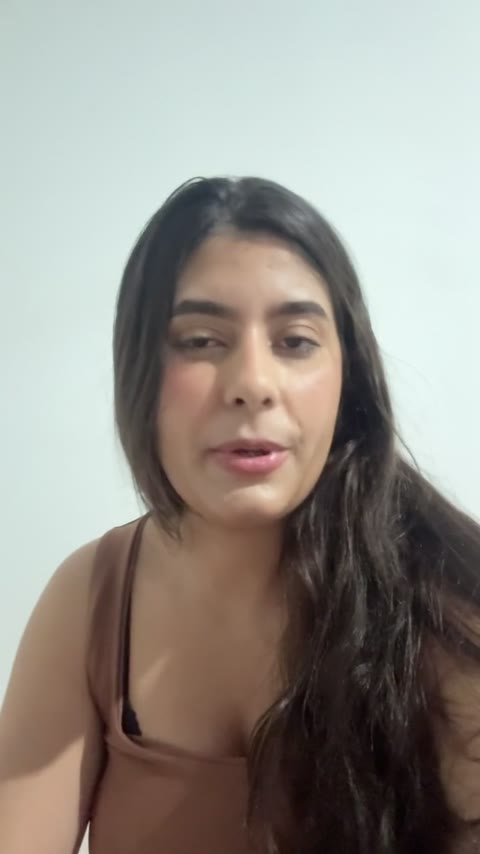
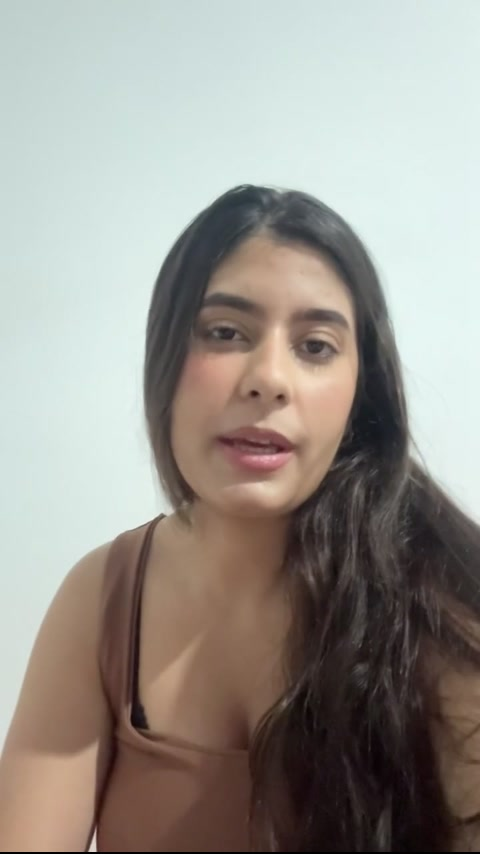
feat: organiza videos depoimento lado a lado em 2 colunas e remove cta flutuante

diff --git a/index.html b/index.html
@@ -210,55 +210,38 @@ a.btn:hover{filter:brightness(1.1)}
 }
 .wa-dot{width:7px;height:7px;border-radius:50%;background:#25d366;box-shadow:0 0 6px #25d366;margin-right:6px}
 
-.wa-video-tabs{
-  display:flex;gap:8px;justify-content:center;margin:12px 0 10px;
+.wa-videos-grid{
+  display:grid;
+  grid-template-columns:1fr 1fr;
+  gap:9px;
+  margin:10px 0 14px;
 }
-.wa-vtab{
-  background:#141414;border:1px solid #25d36638;color:#a0a0a0;
-  padding:6px 14px;border-radius:99px;font-size:11.5px;font-weight:750;
-  cursor:pointer;display:inline-flex;align-items:center;gap:6px;transition:.2s;
-  font-family:inherit;
-}
-.wa-vtab i{font-style:normal;font-size:9px;color:#25d366}
-.wa-vtab.active{
-  background:#25d36618;border-color:#25d366;color:#fff;
-  box-shadow:0 0 12px #25d36625;
-}
-.wa-videos-slider{
-  display:flex;gap:12px;overflow-x:auto;scroll-snap-type:x mandatory;
-  -webkit-overflow-scrolling:touch;padding:4px 2px 10px;
-  scrollbar-width:thin;scrollbar-color:#25d36640 transparent;
-}
-.wa-videos-slider::-webkit-scrollbar{height:4px}
-.wa-videos-slider::-webkit-scrollbar-thumb{background:#25d36640;border-radius:99px}
 .wa-video-card{
-  background:#0d0d0d;border:1px solid #25d36640;border-radius:18px;
-  overflow:hidden;box-shadow:0 0 0 1px #25d36622,0 16px 40px #00000088;
-  flex:0 0 280px;max-width:280px;scroll-snap-align:center;
-  position:relative;margin:0 auto;
+  background:#141414;border:1px solid #25d36640;border-radius:14px;
+  overflow:hidden;box-shadow:0 8px 24px #00000066;
+  display:flex;flex-direction:column;min-width:0;
+  position:relative;
 }
 .wa-video-top{
-  padding:8px 12px;background:#111;border-bottom:1px solid #25d36628;
+  padding:5px 8px;background:#111;border-bottom:1px solid #25d36622;
   display:flex;align-items:center;justify-content:space-between;
 }
-.wa-video-tag{font-size:11px;font-weight:800;color:#25d366;display:flex;align-items:center;gap:6px;letter-spacing:.3px}
-.wa-video-badge{font-size:10px;font-weight:800;color:#25d366;background:#25d36618;border:1px solid #25d36640;padding:2px 8px;border-radius:99px;display:flex;align-items:center;gap:4px}
+.wa-video-tag{font-size:9.5px;font-weight:800;color:#25d366;display:flex;align-items:center;gap:4px;letter-spacing:.2px}
+.wa-video-badge{font-size:9px;font-weight:800;color:#25d366;background:#25d36618;border:1px solid #25d36640;padding:1px 6px;border-radius:99px}
 /* 9:16 vertical ratio */
-.wa-video-wrap{position:relative;width:100%;padding-top:177.78%;background:#000}
+.wa-video-wrap{position:relative;width:100%;aspect-ratio:9/16;background:#000;overflow:hidden}
 .wa-video-wrap video{position:absolute;inset:0;width:100%;height:100%;border:none;object-fit:cover;display:block}
 .wa-video-name{
-  padding:10px 13px 4px;background:#0f0f0f;
-  display:flex;align-items:center;gap:8px;
+  padding:6px 8px 3px;background:#141414;
+  display:flex;align-items:center;gap:6px;
 }
-.wa-video-avatar{width:30px;height:30px;border-radius:50%;background:linear-gradient(135deg,#25d366,#128c5e);display:grid;place-items:center;font-size:13px;font-weight:800;color:#fff;flex:none}
+.wa-video-avatar{width:22px;height:22px;border-radius:50%;background:linear-gradient(135deg,#25d366,#128c5e);display:grid;place-items:center;font-size:11px;font-weight:800;color:#fff;flex:none}
 .wa-video-name-info{flex:1;min-width:0}
-.wa-video-name-info b{font-size:12.5px;color:#fff;display:block;line-height:1.2}
-.wa-video-name-info span{font-size:10.5px;color:#25d366;display:flex;align-items:center;gap:4px}
-.wa-video-cap{padding:6px 13px 13px;background:#0f0f0f;border-top:1px solid #ffffff08;text-align:left}
-.wa-video-cap p{font-size:12px;color:#ccc;line-height:1.45;font-style:italic;}
+.wa-video-name-info b{font-size:11.5px;color:#fff;display:block;line-height:1.2;white-space:nowrap;overflow:hidden;text-overflow:ellipsis}
+.wa-video-name-info span{font-size:9.5px;color:#25d366;display:flex;align-items:center;gap:3px;white-space:nowrap}
+.wa-video-cap{padding:5px 8px 8px;background:#171717;border-top:1px solid var(--line);text-align:left;flex:1;display:flex;align-items:center}
+.wa-video-cap p{font-size:10.5px;color:#d5d5d5;line-height:1.35;font-style:italic;margin:0}
 .wa-video-cap p em{font-style:normal;color:#fff;font-weight:700}
-.wa-video-hint{text-align:center;font-size:10.5px;color:var(--mut);margin-top:2px;letter-spacing:.3px}
-.wa-video-cta{display:flex;align-items:center;justify-content:center;gap:6px;margin-top:10px;padding:9px 12px;background:linear-gradient(90deg,#25d36618,#128c5e18);border:1px solid #25d36640;border-radius:10px;font-size:11.5px;font-weight:800;color:#25d366;cursor:pointer;text-decoration:none;letter-spacing:.3px}
 .wa-subtitle{font-size:11px;font-weight:750;letter-spacing:.8px;text-transform:uppercase;color:var(--mut);margin:16px 0 6px;display:flex;align-items:center;gap:6px}
 .wa-subtitle::after{content:"";flex:1;height:1px;background:var(--line)}
 
@@ -714,16 +697,14 @@ const DEPOIMENTOS_VIDEO=[
     avatar:"L",
     video:"img/depoimento-laura-confere.mp4",
     poster:"img/depoimento-laura-poster.jpg",
-    destaque:"“Finalmente descobri a verdade”",
-    desc:"Assista ao relato real de quem usou o m&eacute;todo e saiu da d&uacute;vida de uma vez."
+    destaque:"“Finalmente descobri a verdade e saí da dúvida”"
   },
   {
     nome:"Gabriela",
     avatar:"G",
     video:"img/depoimento-gabriela-confere.mp4",
     poster:"img/depoimento-gabriela-poster.jpg",
-    destaque:"“Minha intuição não estava errada”",
-    desc:"&ldquo;Descobri v&iacute;deos da ex dele no TikTok... recomendo o Confere para quem quer a verdade sem pagar de louca.&rdquo;"
+    destaque:"“Minha intuição não errou, vi tudo pelo app”"
   }
 ];
 
@@ -744,7 +725,7 @@ function depoSlot(){
   const videoCards=DEPOIMENTOS_VIDEO.map((d, i)=>`
     <div class="wa-video-card" id="depoCard${i}">
       <div class="wa-video-top">
-        <span class="wa-video-tag"><span class="wa-dot"></span>Depoimento Real</span>
+        <span class="wa-video-tag"><span class="wa-dot"></span>Vídeo Real</span>
         <span class="wa-video-badge">&#10003; Verificado</span>
       </div>
       <div class="wa-video-wrap">
@@ -754,30 +735,20 @@ function depoSlot(){
         <div class="wa-video-avatar">${d.avatar}</div>
         <div class="wa-video-name-info">
           <b>${d.nome}</b>
-          <span>&#10003;&nbsp;Cliente verificada</span>
+          <span>&#10003;&nbsp;Verificada</span>
         </div>
       </div>
       <div class="wa-video-cap">
-        <p><em>&#8220;${d.destaque.replace(/[“”]/g,'')}&#8221;</em> &mdash; ${d.desc}</p>
+        <p><em>&#8220;${d.destaque.replace(/[“”]/g,'')}&#8221;</em></p>
       </div>
     </div>`).join("");
-
-  const tabs=`
-    <div class="wa-video-tabs">
-      ${DEPOIMENTOS_VIDEO.map((d, i)=>`
-        <button class="wa-vtab ${i===0?'active':''}" data-action="selectDepo" data-idx="${i}">
-          <i>▶</i> Relato de ${d.nome}
-        </button>`).join("")}
-    </div>`;
 
   return `<div class="sect depo-sect">
     <div class="depo-tag"><span class="wa-dot"></span>Depoimentos Reais</div>
     <h3 style="margin-bottom:8px">Quem já descobriu a verdade</h3>
-    ${tabs}
-    <div class="wa-videos-slider" id="depoSlider">
+    <div class="wa-videos-grid">
       ${videoCards}
     </div>
-    <div class="wa-video-hint"><span>⇄ Deslize para ver os dois relatos em vídeo</span></div>
     <div class="wa-subtitle">Conversas no WhatsApp</div>
     <div class="wa-collage">
       <div class="wa-card">
@@ -868,9 +839,7 @@ function viewResult(){
       <div class="cta-note">Menos que 1 sessão de terapia · Pagamento seguro via Cakto · Cartão, Pix ou PicPay</div>
       <div class="trust"><span>100% anônimo</span><span>Sem cadastro</span><span>Resposta na hora</span><span>${pe2==="ele"?"Ele":"Ela"} nunca fica sabendo</span></div>
     </div>
-  </div>
-  <a id="stickyCta" data-action="openDiscount" href="javascript:void(0)"><span class="sp">Acesso Ilimitado<small><del>R$ 107,90</del> · por R$ 57,00</small></span><span class="go">VER AGORA →</span></a>
-  <div style="height:78px"></div>`;
+  </div>`;
 }
 
 function render(){
@@ -1160,15 +1129,6 @@ app.addEventListener("click",e=>{
     closeDiscountModal();
   }else if(action==="cta"){
     document.dispatchEvent(new CustomEvent("ck_cta_click"));
-  }else if(action==="selectDepo"){
-    const idx=+btn.dataset.idx;
-    const target=document.getElementById("depoCard"+idx);
-    if(target){
-      target.scrollIntoView({behavior:"smooth",block:"nearest",inline:"center"});
-    }
-    document.querySelectorAll(".wa-vtab").forEach((tab, i)=>{
-      tab.classList.toggle("active", i===idx);
-    });
   }else if(action==="sound"){
     soundOn=!soundOn;
     localStorage.setItem("ck_sound",soundOn?"1":"0");
@@ -1182,26 +1142,6 @@ document.addEventListener("play", e=>{
   if(e.target && e.target.tagName==="VIDEO"){
     document.querySelectorAll("video").forEach(v=>{
       if(v!==e.target && !v.classList.contains("feed-video")) v.pause();
-    });
-  }
-}, true);
-
-// Atualiza a tab ativa ao rolar o slider horizontal
-app.addEventListener("scroll", e=>{
-  const slider=document.getElementById("depoSlider");
-  if(slider && (e.target===slider || slider.contains(e.target))){
-    const cards=slider.querySelectorAll(".wa-video-card");
-    const slRect=slider.getBoundingClientRect();
-    const slCenter=slRect.left + slRect.width/2;
-    let closestIdx=0, minDiff=Infinity;
-    cards.forEach((c, idx)=>{
-      const cRect=c.getBoundingClientRect();
-      const cCenter=cRect.left + cRect.width/2;
-      const diff=Math.abs(slCenter - cCenter);
-      if(diff<minDiff){minDiff=diff;closestIdx=idx;}
-    });
-    document.querySelectorAll(".wa-vtab").forEach((tab, i)=>{
-      tab.classList.toggle("active", i===closestIdx);
     });
   }
 }, true);
